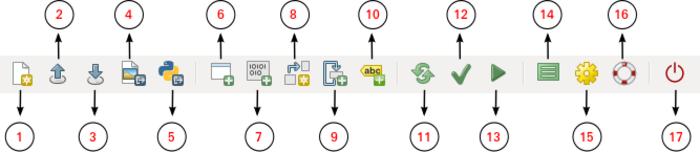
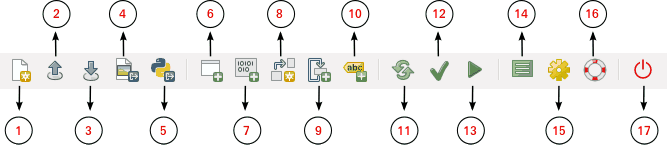
wxGUI/gmodeler: major improvements of the manual by Ludka Furtkevicova                 small images replaced by original (file size optimized by svn-image.sh)                 scaling done by <img width=>
git-svn-id: https://svn.osgeo.org/grass/grass/trunk@68046 15284696-431f-4ddb-bdfa-cd5b030d7da7

diff --git a/gui/wxpython/gmodeler/g.gui.gmodeler.html b/gui/wxpython/gmodeler/g.gui.gmodeler.html
@@ -72,7 +72,6 @@ color="red">16</font>) Show manual and last of them is button
 
 <p>
 <center>
-<br>
 <img src="g_gui_gmodeler_toolbar.png">
 <br>
 <i>Figure: Components of Graphical Modeler menu toolbar.</i>
@@ -88,10 +87,10 @@ shows all the steps of running GRASS modeler modules. In case of some
 errors in calculation process, it is written at that place.
 
 <center>
+<a href="g_gui_gmodeler_lower_toolbar.png"><img src="g_gui_gmodeler_lower_toolbar.png" width="700"></a>
 <br>
-<img src="g_gui_gmodeler_lower_toolbar.png">
-<br>
-<i>Figure: Lower Graphical Modeler menu toolbar.</i>
+<i>Figure: Lower Graphical Modeler menu toolbar.
+</i>
 </center>
 
 <h3>Components of models</h3>
@@ -104,30 +103,32 @@ database tables, etc. Type of data is clear distinguishable in model by color.
 Different model elements are shown on the figures below.
 
 <ul>
-  <li> (<font size="2" color="red">A</font>) raster data: <img src="g_gui_gmodeler_mraster.png" alt="raster" style="margin: 0px 0px -5px 0px">
-  <li> (<font size="2" color="red">B</font>) relation: <img src="g_gui_gmodeler_mrelation.png" alt="relation" style="margin: 10px 0px 0px 0px">
-  <li> (<font size="2" color="red">C</font>) GRASS module: <img src="g_gui_gmodeler_mmodule.png" alt="module" style="margin: 0px 0px -5px 0px">
-  <li> (<font size="2" color="red">D</font>) loop: <img src="g_gui_gmodeler_mloop.png" alt="loop" style="margin: 15px 0px -5px 0px">
-  <li> (<font size="2" color="red">E</font>) database table: <img src="g_gui_gmodeler_mdb.png" alt="db" style="margin: 10px 0px -5px 0px">
-  <li> (<font size="2" color="red">F</font>) 3D raster data: <img src="g_gui_gmodeler_mraster3d.png" alt="raster3D" style="margin: 10px 0px -5px 0px"> 
-  <li> (<font size="2" color="red">G</font>) vector data: <img src="g_gui_gmodeler_mvector.png" alt="vector" style="margin: 10px 0px -5px 0px">  
-  <li> (<font size="2" color="red">H</font>) disabled GRASS module: <img src="g_gui_gmodeler_mmodulex.png" alt="module" style="margin: 10px 0px -5px 0px"> 
-  <li> (<font size="2" color="red">I</font>) comment: <img src="g_gui_gmodeler_mcomment.png" alt="comment" style="margin: 10px 0px -5px 0px">  
+  <li> (<font size="2" color="red">A</font>) raster data: <img src="g_gui_gmodeler_raster.png" alt="raster" style="margin: 0px 0px -5px 0px">
+  <li> (<font size="2" color="red">B</font>) relation: <img src="g_gui_gmodeler_relation.png" alt="relation" style="margin: 10px 0px 0px 0px">
+  <li> (<font size="2" color="red">C</font>) GRASS module: <img src="g_gui_gmodeler_modul.png" alt="module" style="margin: 0px 0px -5px 0px">
+  <li> (<font size="2" color="red">D</font>) loop: <img src="g_gui_gmodeler_loop.png" alt="loop" style="margin: 15px 0px -5px 0px">
+  <li> (<font size="2" color="red">E</font>) database table: <img src="g_gui_gmodeler_db.png" alt="db" style="margin: 10px 0px -5px 0px">
+  <li> (<font size="2" color="red">F</font>) 3D raster data: <img src="g_gui_gmodeler_raster3d.png" alt="raster3D" style="margin: 10px 0px -5px 0px"> 
+  <li> (<font size="2" color="red">G</font>) vector data: <img src="g_gui_gmodeler_vector.png" alt="vector" style="margin: 10px 0px -5px 0px">  
+  <li> (<font size="2" color="red">H</font>) disabled GRASS module: <img src="g_gui_gmodeler_modulex.png" alt="module" style="margin: 10px 0px -5px 0px"> 
+  <li> (<font size="2" color="red">I</font>) comment: <img src="g_gui_gmodeler_comment.png" alt="comment" style="margin: 10px 0px -5px 0px">  
 </ul> 
 
 <center>
-<img src="g_gui_gmodeler_frame1.png">
+<a href="g_gui_gmodeler_model_classification.png">
+<img src="g_gui_gmodeler_model_classification.png" width="500"></a>
 <br>
 <i>Figure: A model to perform unsupervised classification using MLC
-(<a href="i.maxlik.html">i.maxlik</a>) and SMAP
-(<a href="i.smap.html">i.smap</a>).</i>
+(<a href="i.maxlik.html">i.maxlik</a>) and SMAP (<a href="i.smap.html">i.smap</a>).
+</i>
 </center>
 
 <p>
 Another example:
 
 <center>
-<img src="g_gui_gmodeler_frame2.png">
+<a href="g_gui_gmodeler_model_usle.png">
+<img src="g_gui_gmodeler_model_usle.png" width="600"></a>
 <br>
 <i>Figure: A model to perform estimation of average annual soil loss
 caused by sheet and rill erosion using The Universal Soil Loss
@@ -138,8 +139,8 @@ Equation.</i>
 Example as part of landslide prediction process:
 
 <center>
-<br>
-<img src="g_gui_gmodeler_frame3.png">
+<a href="g_gui_gmodeler_model_landslides.png">
+<img src="g_gui_gmodeler_model_landslides.png" width="600"></a>
 <br>
 <i>Figure: A model to perform creation of parametric maps used by geologists 
 to predict landlides in area of interest.</i>
@@ -190,8 +191,10 @@ module name is inserted, after <i>Enter</i> button pressing, module
 dialog window is displayed and it is possible to set all of usual
 module options (parameters and flags).
 
+<p> 
 <center>
-<img src="g_gui_gmodeler_dlg_module.png">
+<a href="g_gui_gmodeler_dlg_module.png"><img src="g_gui_gmodeler_dlg_module.png"
+width="400"></a>
 <br>
 <i>Figure: Dialog for adding GRASS commands to model.</i>
 </center>
@@ -204,7 +207,8 @@ raster data) are parameterized. Parameterized elements have a little thicker boa
 in model scheme with diagrams.
 
 <center>
-<img src="g_gui_gmodeler_parameter.png">
+<a href="g_gui_gmodeler_parameter.png">
+<img src="g_gui_gmodeler_parameter.png" width="500"></a>
 <br>
 <i>Figure: A model parameter settings.</i>
 </center>
@@ -214,13 +218,18 @@ Final model, list of all model items, Python code window with <i>Save</i> and
 <i>Run</i> option are on figures below.
 
 <center>
-<img src="g_gui_gmodeler_zc.png">
+<a href="g_gui_gmodeler_model_avg.png">
+<img src="g_gui_gmodeler_model_avg.png" width="600"></a>
 <br>
 <i>Figure: A model to perform average statistics for zipcode zones.</i>
 </center>
 <br>
 <center>
-<img src="g_gui_gmodeler_zc_items.png">
+<a href="g_gui_gmodeler_items.png">
+<img src="g_gui_gmodeler_items.png" width="600"></a>
+<p>
+<a href="g_gui_gmodeler_python.png">
+<img src="g_gui_gmodeler_python.png" width="600"></a>
 <br>
 <i>Figure: Items with Python editor window.</i>
 </center>
@@ -234,21 +243,176 @@ After model is run with <img src="icons/execute.png" alt="run"> button
 and inputs are set, results can be displayed as follows:
 
 <center>
-<img src="g_gui_gmodeler_avg_auto.png">
+<a href="g_gui_gmodeler_avg_run.png"><img src="g_gui_gmodeler_avg_run.png" width="500"></a>
+<a href="g_gui_gmodeler_avg_map.png"><img src="g_gui_gmodeler_avg_map.png" width="300"></a>
 <br>
 <i>Figure: Average elevation for zipcodes using North Carolina sample dataset as 
 automatic calculation performed by Graphical Modeler.</i>
 </center>
 
 <p>
-Very useful advantage is that for example, this model can later be
-used to calculate (let's say) average precipe value for every
-administrative region in Slovakia using <tt>precip</tt> raster data
-from
+When one wants to run model again with the same data or the same names, it is 
+necessary to use <tt>--overwrite</tt> option. It will cause maps with identical 
+names to be overwritten. Instead of setting it for every 
+module particularly it is handy to change Model Properties settings globally.
+This dialog includes also metadata settings, where model name, model description 
+and autor(s) of model can be set.
+
+<center>
+<a href="g_gui_gmodeler_model_properties.png">
+<img src="g_gui_gmodeler_model_properties.png" width="350"></a>
+<br>
+<i>Figure: Model properties.</i>
+</center>
+
+<p>
+Another useful trick is possibility to set variables. Their content can be used 
+as a substitute for another items. Value of variables can be values such as 
+raster or vector data, integer, float, string value or they may constitute some 
+region, mapset, file or direction data type.   
+
+Then it is not
+necessary to set any parameters for input data. Dialog with viariable settings 
+is automatically displayed after model is run. So, instead of Model parametrers 
+(e.g. <tt>r.import</tt> a <tt>v.import</tt>, see 
+<em><a href="g_gui_gmodeler_avg_run.png">Run model dialog</a></em> above) 
+there are <tt>Variables</tt>.
+
+<center>
+<a href="g_gui_gmodeler_variables_run.png">
+<img src="g_gui_gmodeler_variables_run.png" width="500"></a>
+<br>
+<i>Figure: Model with variable inputs.</i>
+</center>
+
+<p>
+The key point is usage of <tt>%</tt> before the substituting variable and 
+settings in Variables dialog. For example, when there is a model variable 
+<tt>raster</tt> that references a file path and that value is required to be 
+used as one of inputs to a particular model, it should be specified in Variable 
+dialog with competent name (<tt>raster</tt>), data type, default value and 
+description. Then it should be set in module dialog as input called 
+<tt>%raster</tt>.
+
+<center>
+<a href="g_gui_gmodeler_variables.png">
+<img src="g_gui_gmodeler_variables.png" width="600"></a>
+<br>
+<i>Figure: Example of raster file variable settings.</i>
+</center>
+
+<br>
+<center>
+<a href="g_gui_gmodeler_variables_raster.png">
+<img src="g_gui_gmodeler_variables_raster.png" width="600"></a>
+<br>
+<i>Figure: Example of raster file variable usage.</i>
+</center>
+
+<p>
+Finally, model settings can be stored to the file as GRASS Model 
+File <tt>*.gxm</tt> what represents very handy advantage. It can be shared as reusable 
+workflow that be run by different users with different data.
+
+<p>
+For example, this model can later be used to calculate (let's say)
+average precipe value for every administrative region in Slovakia
+using <tt>precip</tt> raster data from
 <a href="https://grass.osgeo.org/uploads/grass/sampledata/slovakia3d_grass7.tar.gz">
 Slovakia precipitation dataset</a> and administration boudaries of Slovakia from 
 <a href="https://www.geoportal.sk/sk/zbgis_smd/na-stiahnutie/">Slovak Geoportal</a>
 (only with a few clicks).
+
+<p>
+There can be some data in a model that did not exist before the process and 
+that it is not worth it to maintain after the process executes. They can 
+be described as being <tt>Intermediate</tt> by single clicking using the right 
+mouse button, see figure below. All such data should be deleted following 
+model completion. The boundary of intermediate component is dotted line.
+
+<center>
+<a href="g_gui_gmodeler_intermediate_data.png">
+<img src="g_gui_gmodeler_intermediate_data.png" width="400"></a>
+<br>
+<i>Figure: Usage and definition of intermediate data in model.</i>
+</center>
+ 
+<p>
+Using Python editor in wxGUI Graphical Modeler one can add python code and then 
+run it with <tt>Run</tt> button or just save it as python script <tt>*.py</tt>.
+Result is shown below.
+
+<center>
+<a href="g_gui_gmodeler_python_code.png">
+<img src="g_gui_gmodeler_python_code.png" width="350"></a>
+<a href="g_gui_gmodeler_python_code_result.png">
+<img src="g_gui_gmodeler_python_code_result.png" width="350"></a>
+<br>
+<i>Figure: Python editor in wxGUI Graphical Modeler.</i>
+</center>
+
+<p>
+In example below <a href="https://ladsweb.nascom.nasa.gov/data/search.html">
+MODIS</a> data products are used in loop. It is about that original data are 
+stored as coded integer values that should be multiplied by 
+value <tt>0.0001</tt> to represent real <i>ndvi values</i>. Moreover, GRASS GIS
+provides color table called <tt>ndvi</tt> to present <i>ndvi data</i>.  
+In this case it is not necessary to work with every image separately. 
+<br>
+Graphical 
+Modeler is an appropriate tool to 
+process data in an effective way using loop and variables (<tt>%map</tt> for a 
+particular MODIS image in mapset and <tt>%ndvi</tt> for original data name suffix). 
+After loop component is added to model, it is necessary to define series of maps
+with required settings of map type, mapset, etc.
+
+<center>
+<a href="g_gui_gmodeler_loop_dlg.png">
+<img src="g_gui_gmodeler_loop_dlg.png" width="300"></a>
+<br>
+<i>Figure: MODIS data representation in GRASS GIS after Graphical Modeler usage.</i>
+</center>
+
+<p>
+When model is supplemented by all of modules, these modules should be 
+ticked in the boxes of loop dialog. Final model and it's results are shown below.
+
+<center>
+<a href="g_gui_gmodeler_loop_final.png">
+<img src="g_gui_gmodeler_loop_final.png" width="400"></a>
+<br>
+<i>Figure: Model with loop.</i>
+</center>
+
+<p>
+<center>
+<a href="g_gui_gmodeler_modis_1o.png">
+<img src="g_gui_gmodeler_modis_1o.png" width="300"></a>
+<a href="g_gui_gmodeler_modis_1.png">
+<img src="g_gui_gmodeler_modis_1.png" width="300"></a>
+<a href="g_gui_gmodeler_modis_2o.png">
+<img src="g_gui_gmodeler_modis_2o.png" width="300"></a><br>
+<a href="g_gui_gmodeler_modis_2.png">
+<img src="g_gui_gmodeler_modis_2.png" width="300"></a>
+<a href="g_gui_gmodeler_modis_3o.png">
+<img src="g_gui_gmodeler_modis_3o.png" width="300"></a>
+<a href="g_gui_gmodeler_modis_3.png">
+<img src="g_gui_gmodeler_modis_3.png" width="300"></a>
+<br>
+<i>Figure: MODIS data representation in GRASS GIS after Graphical Modeler usage.</i>
+</center>
+
+<p>
+Steps in command console would be as follows:
+
+<div class="code"><pre>
+# rename original image with preselected suffix
+g.rename raster = %map,%map.%ndvi
+# convert integer values
+r.mapcalc expression = %map = %map.%ndvi * 0.0001
+# set color table appropriate for nvdi data
+r.colors = map = %map color = ndvi
+</pre></div>
 
 <h2>SEE ALSO</h2>
 
